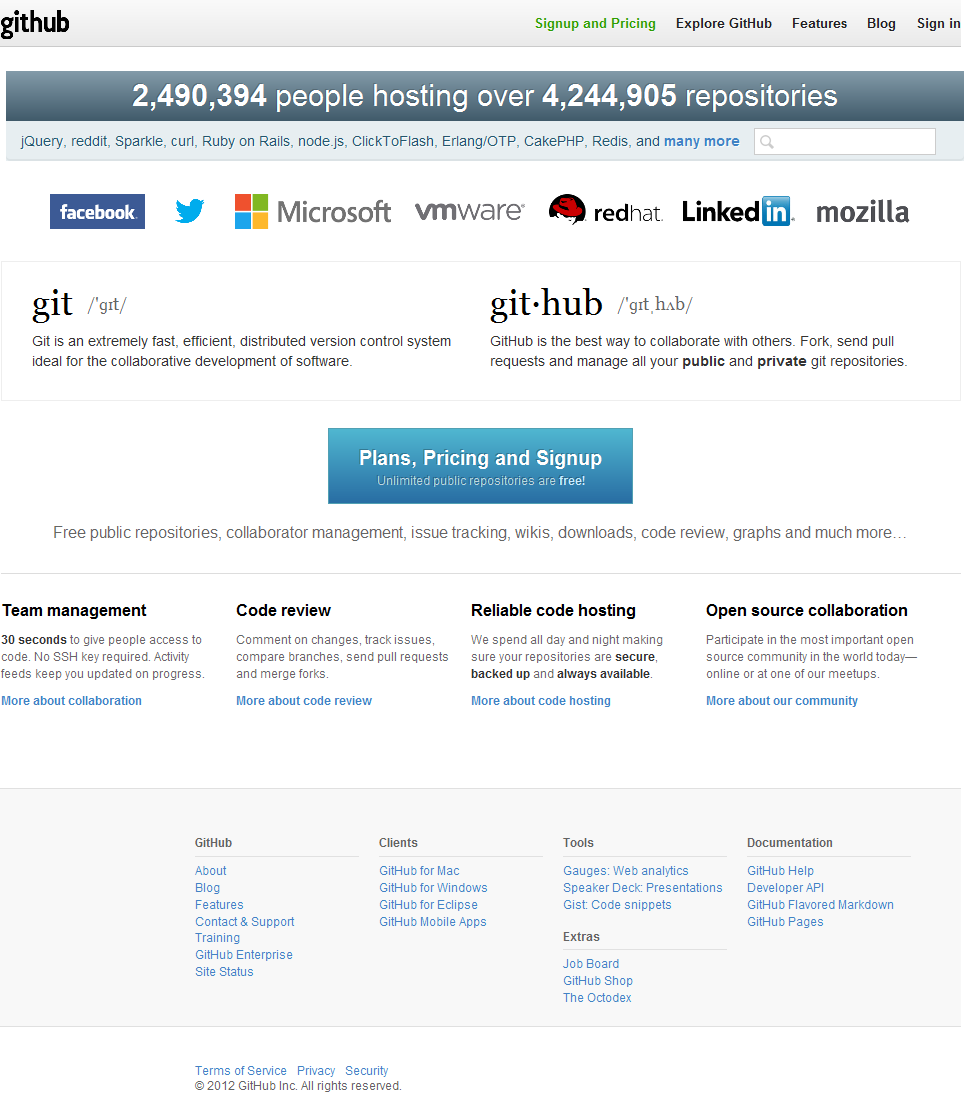
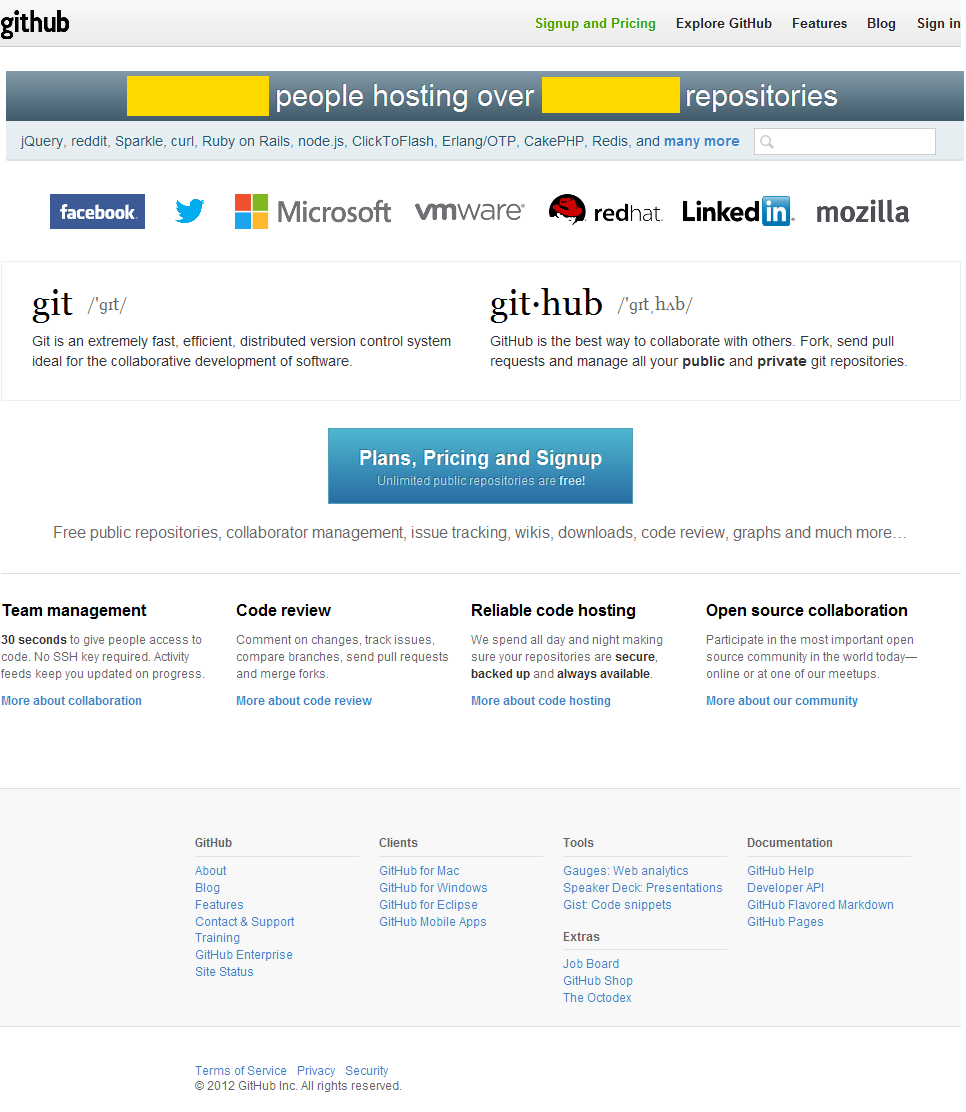
Added some ignore sections to Williamson.BDD/Images/GitHub/Home.png. Add another test to ensure changes in now ignore sections still get noticed.

Changed region(s): [[0.559, 0.0612, 0.7143, 0.1223], [0.1242, 0.0612, 0.2795, 0.1223]]

diff --git a/Williamson.VDD.Tests/ImageComparerFixture.cs b/Williamson.VDD.Tests/ImageComparerFixture.cs
@@ -16,29 +16,32 @@ namespace Williamson.VDD.Tests
     public class ImageComparerFixture
     {
         /// <summary>
-        /// Loads the test
+        /// Loads image.
         /// </summary>
-        /// <param name="image"></param>
-        /// <param name="extension"></param>
-        /// <returns></returns>
+        /// <param name="image">The image without it's extension. By default .png is applied 
+        /// unless you specify a <paramref name="extension"/></param>
+        /// <param name="extension">Default .png</param>
+        /// <returns>A resource stream</returns>
         private Stream Load(string image, string extension = "png")
         {
             var r = "Williamson.VDD.Tests.Images." + image + "." + extension;
             var s =  Assembly.GetExecutingAssembly().GetManifestResourceStream(r);
+            //if adding new images ensure they are added as an embedded resource
             if (s == null) Assert.Fail("Cannot load:" + r);
             return s;
         }
         /// <summary>
-        /// Performs a test to ensure both images match
+        /// Performs a test checking whether or not two images match
         /// </summary>
         [Test]
-        [TestCase("Google.Home","Google.Home",true,TestName="SameImages")]
+        [TestCase("Google.Home","Google.Home",true,TestName="Same Images")]
         [TestCase("Google.Home", "Google.Home.LogoMoved",false, TestName = "Logo To left")]
         [TestCase("Google.Home", "Google.Home.SearchButtonBlur", false, TestName = "Search Button Blurred")]
         [TestCase("Google.Home", "Google.Home.SearchButtonMissingS", false, TestName = "Search Button Missing letter 'S'")]
         [TestCase("Google.Home", "Google.Home.SigninReducedSize", false, TestName = "Search Button Smaller")]
         [TestCase("Github.Home", "Github.Home", true, TestName = "Github same")]
-        [TestCase("Github.Home.IgnoreSections", "Github.Home.LineThroughStats", true, TestName = "Github same using transparent layers")]
+        [TestCase("Github.Home.IgnoreSections", "Github.Home.LineThroughStats", true, TestName = "Github same with change in an 'ignored' section")]
+        [TestCase("Github.Home.IgnoreSections", "Github.Home.LineThroughNoneIgnoredSection", false, TestName = "Github same with change not an 'ignored' section")]
         [TestCase("Github.Home.IgnoreSections", "Github.Home.IgnoreSections", true, TestName = "Lines Through")]
         [TestCase("Github.Home", "Github.TooSmall", false, TestName = "Images not same size", ExpectedException = typeof(ImagesAreNotSameSizeException))]        
         public void IsEqual(string src1, string src2, bool equal)

diff --git a/Williamson.BDD/StepDefinitions/GitHubSteps.cs b/Williamson.BDD/StepDefinitions/GitHubSteps.cs
@@ -67,7 +67,7 @@ namespace Williamson.BDD.StepDefinitions
                     //now compare current with base
                     Assert.IsTrue(new ImageComparer().IsEqual(streamExpected, streamActual, (bm) => {
                         //save the diffences to manually inspect
-                        bm.Save(output.Replace("actual","expected"));
+                        bm.Save(output.Replace("actual","difference"));
                     }), "Images do not match");
                 }
                 

diff --git a/readme.md b/readme.md
@@ -28,4 +28,4 @@ It's likely some tests will fail since I'm basing them websites that are dynamic
 As I add loads of samples I will try to find something a bit more stable.
 
 ###Image Sizes
-You default browser size may differ from mine and therefore create failing tests.
+Your default browser size may differ from mine so you might have failing tests due to mismatching image sizes.
